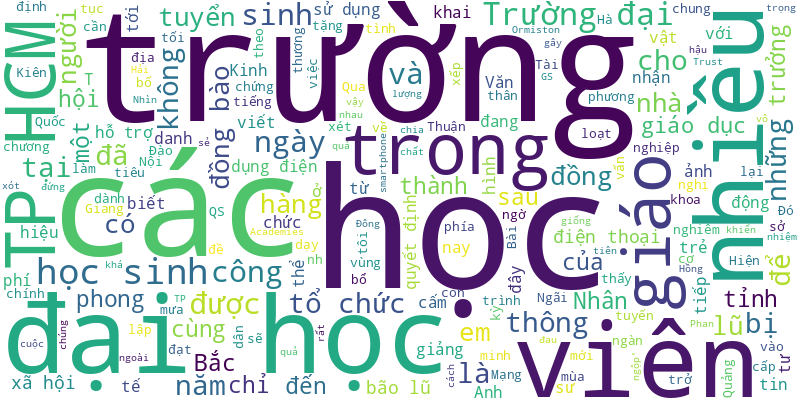
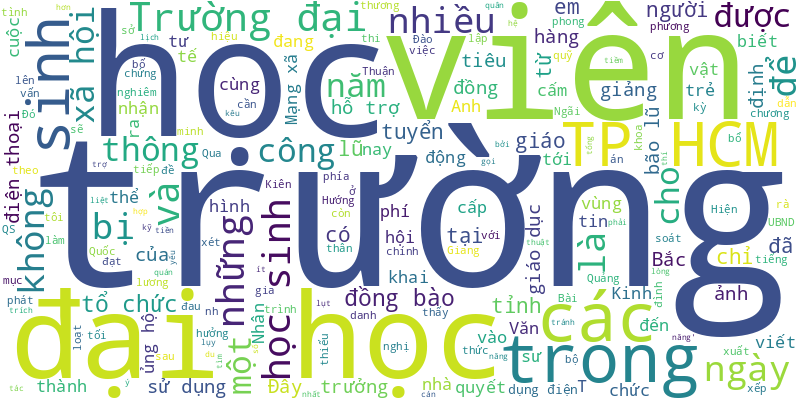
🍀 = 100%

diff --git a/README.md b/README.md
@@ -1,6 +1,10 @@
 # Tuoi Tre RSS 
 
 ## Giáo dục 
+- Để tránh những hệ lụy đau lòng xuất phát từ việc sử dụng mạng xã hội thiếu ý thức và yếu kỹ năng, gia đình - nhà trường - xã hội phải quyết liệt vào cuộc.
+- Từ hơn 300 thí sinh, cuộc thi học thuật cấp thành 'Hướng dẫn viên du lịch tiềm năng' đã tìm ra quán quân.
+- Không chỉ kêu gọi cán bộ, giảng viên ủng hộ ít nhất một ngày lương, trích tiền quỹ ra ủng hộ đồng bào vùng lũ, nhiều trường còn rà soát tổng số sinh viên trong trường bị ảnh hưởng bởi lũ lụt để lên phương án hỗ trợ.
+- Đây là một trong những mục tiêu trong mục tiêu hợp tác của Trường đại học Luật TP.HCM và UBND tỉnh Khánh Hòa.
 - Hiện có quá nhiều thông tin tư vấn, cách tổ chức khá giống nhau khiến cho học sinh 'ngộp'. Do vậy rất cần chương trình tư vấn tuyển sinh chất lượng.
 - Tổ chức giáo dục Ormiston Academies Trust sẽ tiên phong trong việc cấm học sinh sử dụng điện thoại thông minh (smartphone) trong trường học.
 - 'Bão lũ đang gây hậu quả vô cùng nghiêm trọng cho đồng bào các tỉnh phía Bắc. Nhìn thấy những hình ảnh đau xót, chúng tôi không thể đứng ngoài cuộc”, TS Phan Hồng Hải, hiệu trưởng Trường đại học Công nghiệp TP.HCM, chia sẻ.
@@ -27,44 +31,41 @@
 - Nếu vi phạm lệnh cấm dùng điện thoại di động trong trường, học sinh có thể bị đình chỉ từ 1 đến 3 ngày.
 - "Em mong là sẽ không ai bị mất người thân trong cơn lũ. Em xem hình ảnh nhà cửa bị cuốn đi, thấy thương".
 - Sáng nay 12-9, hàng loạt trường đại học tại TP.HCM phát động viên chức, người lao động đóng góp tối thiểu một ngày lương hỗ trợ đồng bào miền Bắc bị bão lũ.
-- Nhà giáo Huỳnh Duy Thủy được Chủ tịch nước Tô Lâm ký quyết định ngày 27-6-2024 về việc phong tặng danh hiệu Nhà giáo nhân dân.
-- Trước diễn biến phức tạp của mưa lũ, nhiều trường học tại Hà Nội và các địa phương đã chuyển sang dạy trực tuyến, trò học online.
-- Sau bốn mùa thành công, Speak Up 2024 tiếp tục trở thành “ngôi nhà chung” hội tụ hàng ngàn tài năng nhí với nhiều bất ngờ mới.
-- Nhiều giáo viên sau khi hết giờ dạy đã xung phong ở lại trường để cùng đồng nghiệp nấu cơm dành tặng bà con đến trường sơ tán tránh mưa lũ.
 ![Edu](Edu.png)
 ## Thời Sự 
-- Ngoài giải quyết chuyện người dân mất trắng tài sản cần được hỗ trợ để khôi phục sản xuất, ổn định kế sinh nhai, hậu quả của bão lũ còn ngồn ngộn các vấn đề khác. Đó là những vấn đề gì và cách xử lý thế nào?
-- 2 thanh niên quê Quảng Bình mang theo súng cùng 7 viên đạn "hộ tống” 26kg ma túy từ Lào về Việt Nam thì bị bắt.
-- Anh tranh thủ ngày nghỉ cuối tuần, phụ gia đình đốt thực bì rừng trồng thì bị ngạt khí, được đưa đi cấp cứu nhưng không qua khỏi.
-- Sau trận lũ quét kinh hoàng tại Làng Nủ (huyện Bảo Yên, Lào Cai) vào sáng 10-9, Hoàng Văn Thới (33 tuổi) mất đi mẹ, vợ và ba người con.
-- Sáng nay 15-9, nhiều nơi ở TP.HCM có mưa dông, dự báo những ngày tới mưa sẽ còn tiếp tục xảy ra.
-- Những thiệt hại về người, tài sản sau cơn bão Yagi (bão số 3) thật khủng khiếp (xem đồ họa). Việc tái thiết cơ sở hạ tầng, năng lực sản xuất...theo các chuyên gia và nhà quản lý, cần đến một quyết sách đủ mạnh.
-- Ngày 14-9, Bí thư Thành ủy Hà Nội Bùi Thị Minh Hoài cùng nhiều lãnh đạo TP đã cùng người dân dọn dẹp vệ sinh tại vườn hoa Vạn Xuân trong lễ phát động toàn dân tham gia tổng vệ sinh môi trường, khắc phục hậu quả cơn bão số 3.
-- Cầu Tân Thuận 1, Sài Gòn, Bình Triệu 1... có tuổi đời hàng chục, hàng trăm năm sắp được kiểm tra để đảm bảo an toàn trong mùa mưa bão.
-- Trung tâm Dự báo khí tượng thủy văn quốc gia dự báo từ nay (15-9) đến chiều tối 16-9, ở khu vực Tây Nguyên và Nam Bộ có mưa vừa, mưa to và dông, cục bộ có nơi mưa rất to.
-- Lực lượng chức năng tỉnh Phú Thọ vừa phát hiện thi thể một người phụ nữ và xác định là nạn nhân trong vụ sập cầu Phong Châu xảy ra hôm 9-9.
-- Thứ trưởng Bộ Nông nghiệp và Phát triển nông thôn Nguyễn Hoàng Hiệp kể lại những giờ phút 'gay cấn' và 'chưa có tiền lệ' trong bão số 3 (Yagi) ngay trên sóng chương trình truyền hình trực tiếp Hướng về đồng bào nơi bão lũ.
-- Tin tức đáng chú ý: Hệ thống đê điều ghi nhận trên 300 sự cố trong đợt lũ lụt lớn phía Bắc vừa qua; Hiện nước trên các sông vẫn xuống nhưng chậm, vẫn ngập tại một số vùng; Kỷ niệm 55 năm thành lập Bệnh viện Nội tiết trung ương...
-- Hôm nay 15-9, thời tiết Bắc Bộ nắng đến nắng nóng, trời giảm mưa nhưng lũ các sông vẫn xuống chậm, nguy cơ sạt lở vẫn chực chờ khắp nơi.
-- Từ nay đến cuối năm có thể có từ 6 - 8 cơn bão, áp thấp nhiệt đới hoạt động trên khu vực Biển Đông, trong đó khoảng 3 - 4 cơn ảnh hưởng trực tiếp nước ta.
-- Đội thanh niên công nhân đảm bảo an ninh trật tự trên địa bàn Khu công nghiệp Tân Thới Hiệp vừa được ra mắt tối nay.
-- Dù các đơn vị đã nỗ lực khắc phục các vị trí sạt lở các quốc lộ tại miền Bắc nhưng đến 15h ngày 14-9 vẫn còn 13 điểm sạt lở, sụt lún chưa thể khắc phục.
-- Đến nay các lực lượng của quân đội đã đưa 374.000 người đến nơi an toàn trước, trong và sau bão số 3.
-- Mặt trận Tổ quốc Việt Nam đã tiếp tục đăng tải 335 trang sao kê tiền ủng hộ đồng bào bị ảnh hưởng bởi bão số 3 từ ngày 1 đến 12-9, trong đó có tên nhiều nghệ sĩ.
-- Phó thủ tướng thường trực Nguyễn Hòa Bình dự lễ Trung thu Đêm hội trăng rằm tại Đắk Lắk - nơi kết nối, sẻ chia niềm vui với thiếu nhi 13 tỉnh, thành phố khác.
-- Chỉ vài giờ sau khi mạng xã hội lan truyền đoạn video clip cho rằng hai người cho thuê xe điện cân bằng ở phố Nguyễn Huệ (phường Bến Nghé, quận 1) 'chặt chém' streamer nổi tiếng IshowSpeed, công an đã mời 2 người này về làm việc.
-- Hơn 500 trẻ em, trong đó chủ yếu các em nhỏ có hoàn cảnh gia đình khó khăn, bị mồ côi do đại dịch COVID-19 đã đón Tết Trung thu sớm.
-- Chính phủ Anh khẳng định sát cánh cùng người dân Việt Nam. Cộng đồng doanh nghiệp Singapore tại Việt Nam cũng chung tay quyên góp.
-- Ngày 14-9, đã có gần 5.200 lượt bạn đọc là cá nhân và tổ chức ủng hộ hơn 7 tỉ đồng cho đồng bào vùng bão lũ các tỉnh phía Bắc.
-- Sáu ngày qua, gia đình bà Sáu (ở xã Thạch Đồng) vẫn dầm mưa, dãi nắng đi tìm vợ chồng anh trai bị mất tích sau vụ sập cầu Phong Châu.
-- Quán cơm miễn phí đầy nghĩa tình của cảnh sát giao thông Quảng Ngãi để tiếp tinh thần cho các đoàn ra cứu trợ bão lũ miền Bắc.
-- Đến 18h ngày 14-9, hàng dài ôtô vẫn 'rồng rắn' nối đuôi vô phà Cát Lái (hướng Đồng Nai về TP.HCM).
-- Các tổ chức, cá nhân đã chuyển về tài khoản của Ban Vận động cứu trợ Trung ương là 1.001 tỉ để ủng hộ đồng bào thiệt hại do bão số 3.
-- Đa phần bánh trung thu chứa nhiều đường, chất béo và calo, nên nếu ăn không đúng cách dễ gây béo phì, tăng đường huyết, gây hại đến tim mạch.
-- Công an TP Long Xuyên, tỉnh An Giang khởi tố nhóm thanh niên bắt giữ một phụ nữ để đòi nợ theo kiểu cưỡng đoạt tài sản.
-- Tối nay, mưa lớn có thể xảy ra nhiều nơi tại TP.HCM. Mưa kèm theo dông lốc, có khả năng gây ngập ở các vùng trũng, ven sông và kênh rạch.
+- Đường Cộng Hòa (quận Tân Bình, TP.HCM) có chiều dài chỉ khoảng 3km nhưng hầu như ngày nào cũng kẹt xe.
+- Một tối trong tuần, ông Hồng chạy xe ba gác ghé tòa soạn. Ông gom hết tiền lẻ trong túi, góp xong, ông ngồi viết vài dòng: "Kính gửi đồng bào miền Bắc...".
+- Công chức, viên chức, người lao động Sở Xây dựng TP.HCM ủng hộ 707 triệu đồng cho đồng bào vùng bão, lũ phía Bắc do cơn bão số 3 (Yagi).
+- Lực lượng chức năng đang nỗ lực tìm kiếm người mất tích ở 2 điểm đau thương nhất hiện nay là cầu Phong Châu (Phú Thọ) và thôn Làng Nủ (Lào Cai).
+- Trận mưa lớn đổ xuống TP Hà Nội từ đêm 15, rạng sáng 16-9 đã khiến nhiều tuyến phố bị ngập nặng và ùn tắc nghiêm trọng trong sáng sớm đầu tuần.
+- Trung tâm Dự báo khí tượng thủy văn quốc gia cho biết ở vùng biển phía đông đảo Luzon (Philippines) có một áp thấp nhiệt đới đang hoạt động.
+- Một số tin tức đáng chú ý: Xuất cấp lương thực, vật tư, hóa chất khử khuẩn khắc phục hậu quả bão số 3; Biến động lãnh đạo ở Chứng khoán Phố Wall; Chủ thương hiệu Kem Tràng Tiền báo lỗ.
+- Hôm nay 16-9, thời tiết Bắc Bộ nắng gián đoạn, mưa dông xuất hiện trở lại, có nơi mưa to. Nam Bộ mưa to đến rất to.
+- Tối 15-9, Ủy ban Trung ương Mặt trận Tổ quốc Việt Nam tiếp tục đăng tải 9.899 trang sao kê tiền ủng hộ đồng bào bị ảnh hưởng bởi bão số 3 trong ngày 12-9.
+- Khu tái định cư mới được chọn xây dựng tại khu vực đồi sim, cách Nhà văn hóa thôn Làng Nủ (Lào Cai) khoảng 2km.
+- Sau nỗ lực khắc phục 45 điểm sạt lở nền đường do mưa lũ gây ra, ngày 15-9 tuyến đường sắt Hà Nội - Lào Cai đã được khai thông, gần 700 tấn hàng cứu trợ đang được các đoàn tàu chở tới vùng lũ.
+- Không chỉ tài sản của người dân, doanh nghiệp, trụ sở các cơ quan bị thiệt hại, mà những cánh rừng xanh biếc ở Cát Bà cũng hóa màu nâu sẫm sau khi bão số 3 quét qua.
+- Ủy ban Trung ương Mặt trận Tổ quốc Việt Nam đăng tải 9.194 trang sao kê tiền ủng hộ đồng bào bị ảnh hưởng bởi bão số 3 trong ngày 11-9.
+- Tỉnh Lâm Đồng phối hợp Hà Giang kêu gọi góp sức xây cầu Tân Điền nối vào quốc lộ 279. Riêng người dân Lâm Đồng tặng 2 tỉ đồng.
+- Thiếu tướng Đặng Quốc Bảo, nguyên trưởng Ban Khoa giáo Trung ương, nguyên bí thư thứ nhất Trung ương Đoàn, đã từ trần hồi 9h02 ngày 15-9.
+- Cơn mưa tầm tã ngày cuối tuần 15-9 không ngăn được bước chân của những bạn đọc hảo tâm đến tòa soạn báo Tuổi Trẻ.
+- Chiều cuối tuần, lượng xe từ các nơi bắt đầu dồn về cao tốc TP.HCM - Long Thành, cộng một làn đường trên cầu Long Thành được rào chắn để sửa khe co giãn nên xảy ra ùn ứ kéo dài.
+- Thấy chiếc nhẫn vàng để quên trong chiếc áo cứu trợ bà con vùng lũ, người phụ nữ liền đăng tin và báo công an tìm chủ nhân, hành động này được cư dân mạng chia sẻ và dành 'cơn mưa' lời khen.
+- Trong hai ngày tới Nam Bộ mưa to nhiều nơi, đây là đợt mưa diện rộng dài ngày.
+- Ngày 15-9, UBND tỉnh Điện Biên tổ chức hội thảo khoa học về nghiên cứu, đề xuất phục dựng đền thờ Đức Thánh Trần tại di tích Đồi A1.
+- Tuyến đường nối từ Nguyễn Văn Cừ đến đê Ngọc Thụy (Long Biên, Hà Nội) đang hoàn thiện những công đoạn cuối, chuẩn bị khánh thành dịp 70 năm Giải phóng thủ đô (10-10).
+- Theo thống kê mới nhất cập nhật tình hình thiệt hại sau bão số 3, Quảng Ninh (23.770 tỉ đồng) và Hải Phòng (11.000 tỉ đồng) tổng thiệt hại 34.770 tỉ đồng.
+- Ủy ban Trung ương Mặt trận Tổ quốc Việt Nam đã công bố danh sách chuyển tiền đợt 1 với 385 tỉ đồng cho 20 địa phương bị thiệt hại do bão số 3 gây ra.
+- Theo đại diện Sở Kế hoạch và Đầu tư TP.HCM, các dự án mới ở giai đoạn chuẩn bị, đợi điều chỉnh quy hoạch, thủ tục chậm... là những nguyên nhân khiến việc giải ngân vốn đầu tư các công trình giao thông bị chậm.
+- Tàu SE6 khi đi qua đoạn đường sắt thuộc huyện Phú Lộc (Thừa Thiên Huế) thì bị trật bánh. Đây là vụ trật bánh tàu Bắc - Nam thứ tư trong vòng hơn 1 tháng ở đoạn đường sắt này.
+- Trong lúc bị đưa về xử lý hành vi chạy quá tốc độ, nam thanh niên bất ngờ đấm nhiều cái vào mặt chiến sĩ cảnh sát cơ động hòng bỏ trốn nhưng bất thành.
+- Sạt lở là vấn đề nghiêm trọng thường xuyên xảy ra vào mùa mưa lũ tại Quảng Ngãi. Chủ tịch UBND tỉnh phát đi văn bản hỏa tốc triển khai phương án ứng phó.
+- Các bác sĩ của Bệnh viện Bạch Mai và chuyên gia Nhật đã có buổi hội chẩn toàn viện sáng nay 15-9, tập trung hết sức cứu bé gái 11 tuổi được chuyển đến từ Làng Nủ, Bảo Yên, Lào Cai.
+- Lô hàng viện trợ của Nhật Bản sau bão số 3 (Yagi) đã đến sân bay Nội Bài - sớm hơn một ngày so với dự kiến. Nhóm chuyên gia Thụy Sĩ sẽ đến tỉnh Yên Bái vào tuần sau.
+- Dự báo cơn bão Bebinca đang hoạt động ở tây bắc Thái Bình Dương sẽ đổ bộ vào khu vực phía đông Trung Quốc, không ảnh hưởng đến Việt Nam.
 ![New](News.png)
 ## Nhịp sống số 
+- Mô hình o1 của OpenAI được nói là sẽ 'suy nghĩ' trước khi trả lời, có thể giải quyết các vấn đề khó hơn về khoa học, toán học hay lập trình.
 - Cục Viễn thông đang đề xuất lùi thời gian tắt sóng 2G, để các nhà mạng có thêm thời gian hỗ trợ 3,4 triệu khách hàng chuyển đổi từ thuê 2G lên 4G.
 - Ban tổ chức cho biết sự kiện nhằm ghi nhận, vinh danh và ủng hộ những đóng góp cũng như tài năng đội ngũ sáng tạo nội dung số tại Việt Nam.
 - Quyết định rút khỏi thị trường Việt Nam của Gojek để lại nhiều tiếc nuối cho các đối tác tài xế, nhà hàng và người dùng, những người đã đồng hành cùng hãng xe công nghệ thời gian qua.
@@ -94,5 +95,4 @@
 - Điện thoại gập mới ra mắt của Samsung nâng cao hiệu suất làm việc, giải trí với những tính năng độc nhất.
 - Gần một tuần sau sự cố sập mạng toàn cầu, CrowdStrike cho biết 97% máy tính sử dụng hệ điều hành Windows bị ảnh hưởng đã hoạt động trở lại.
 - CrowdStrike thừa nhận sự cố sập hệ thống vi tính toàn cầu là do lỗi trong quá trình kiểm soát chất lượng các bản cập nhật phần mềm của công ty này.
-- Việc Google giữ cookie đồng nghĩa dữ liệu cá nhân của 3 tỉ người dùng Chrome vẫn đang bị các trang mạng theo dõi.
 ![life](Life.png)
